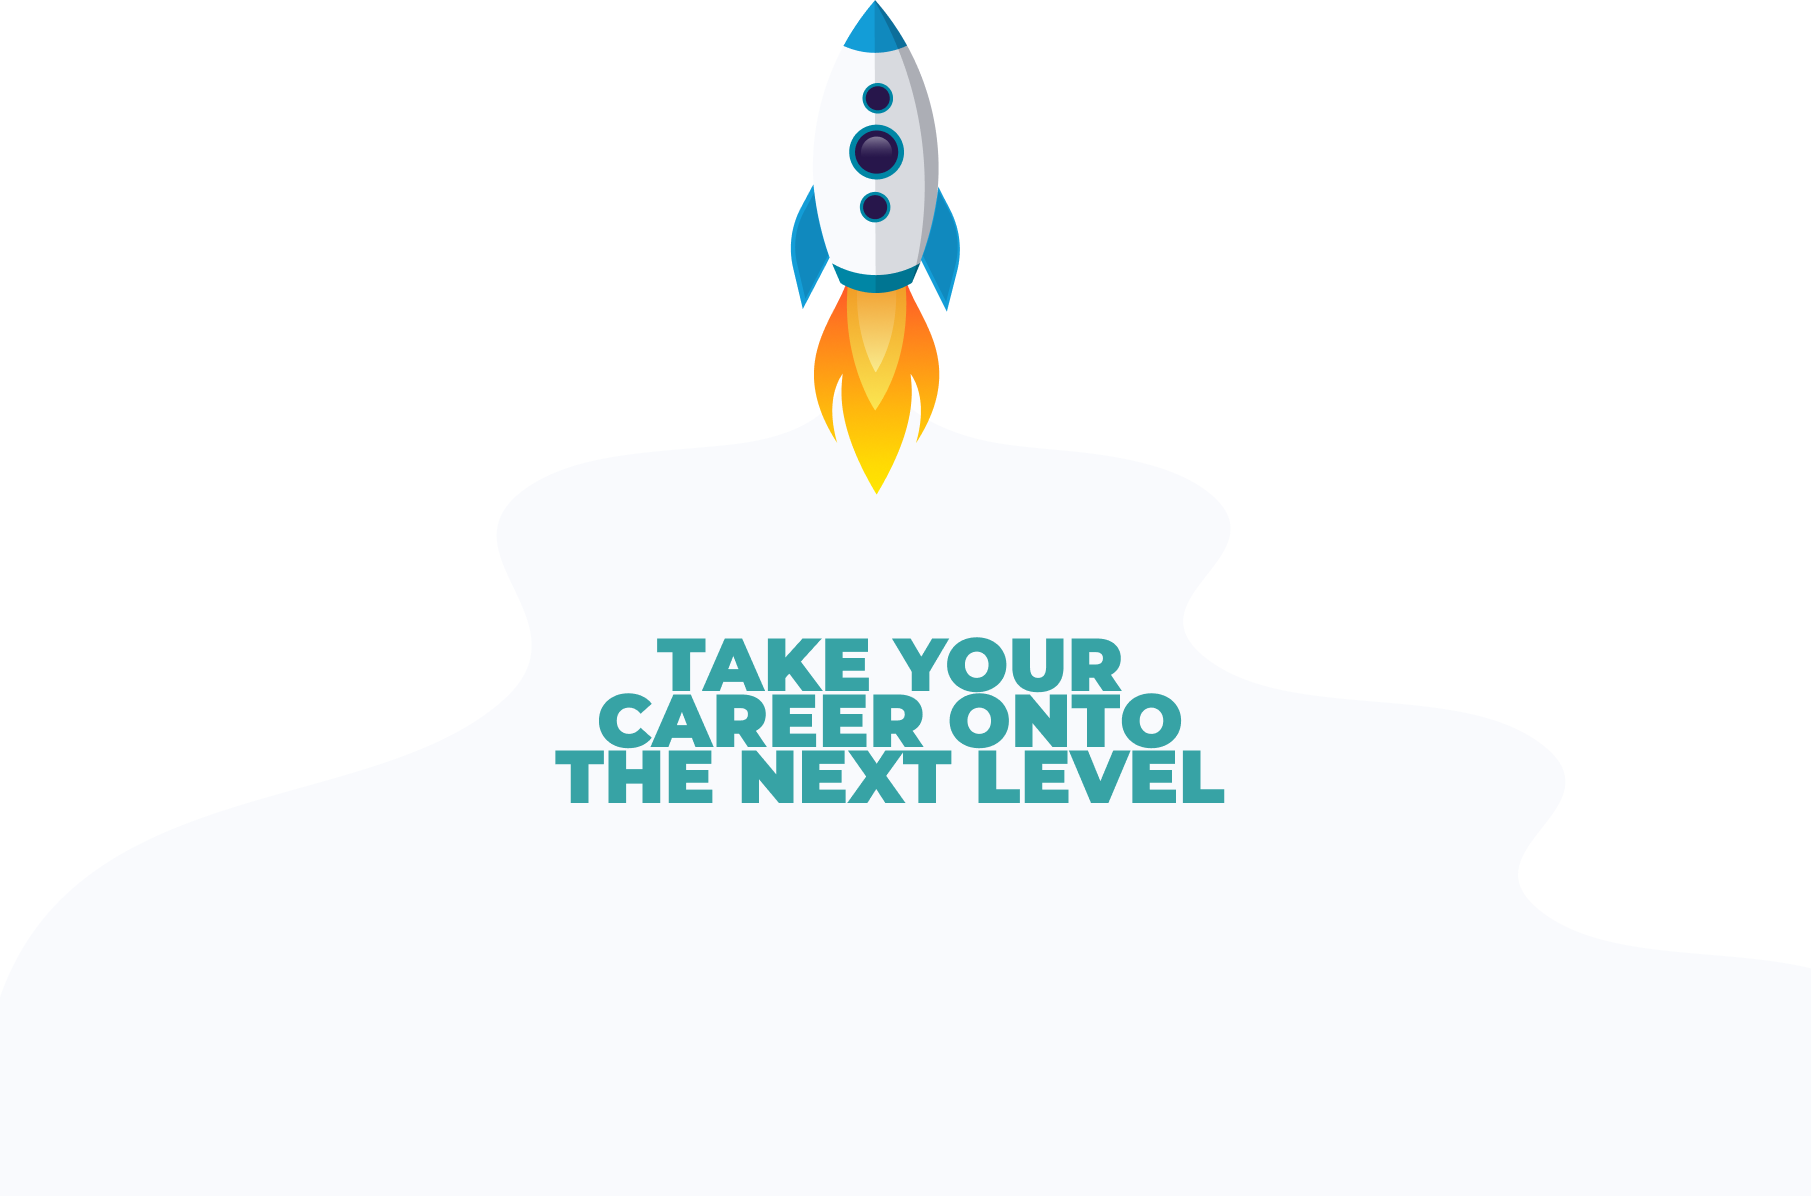
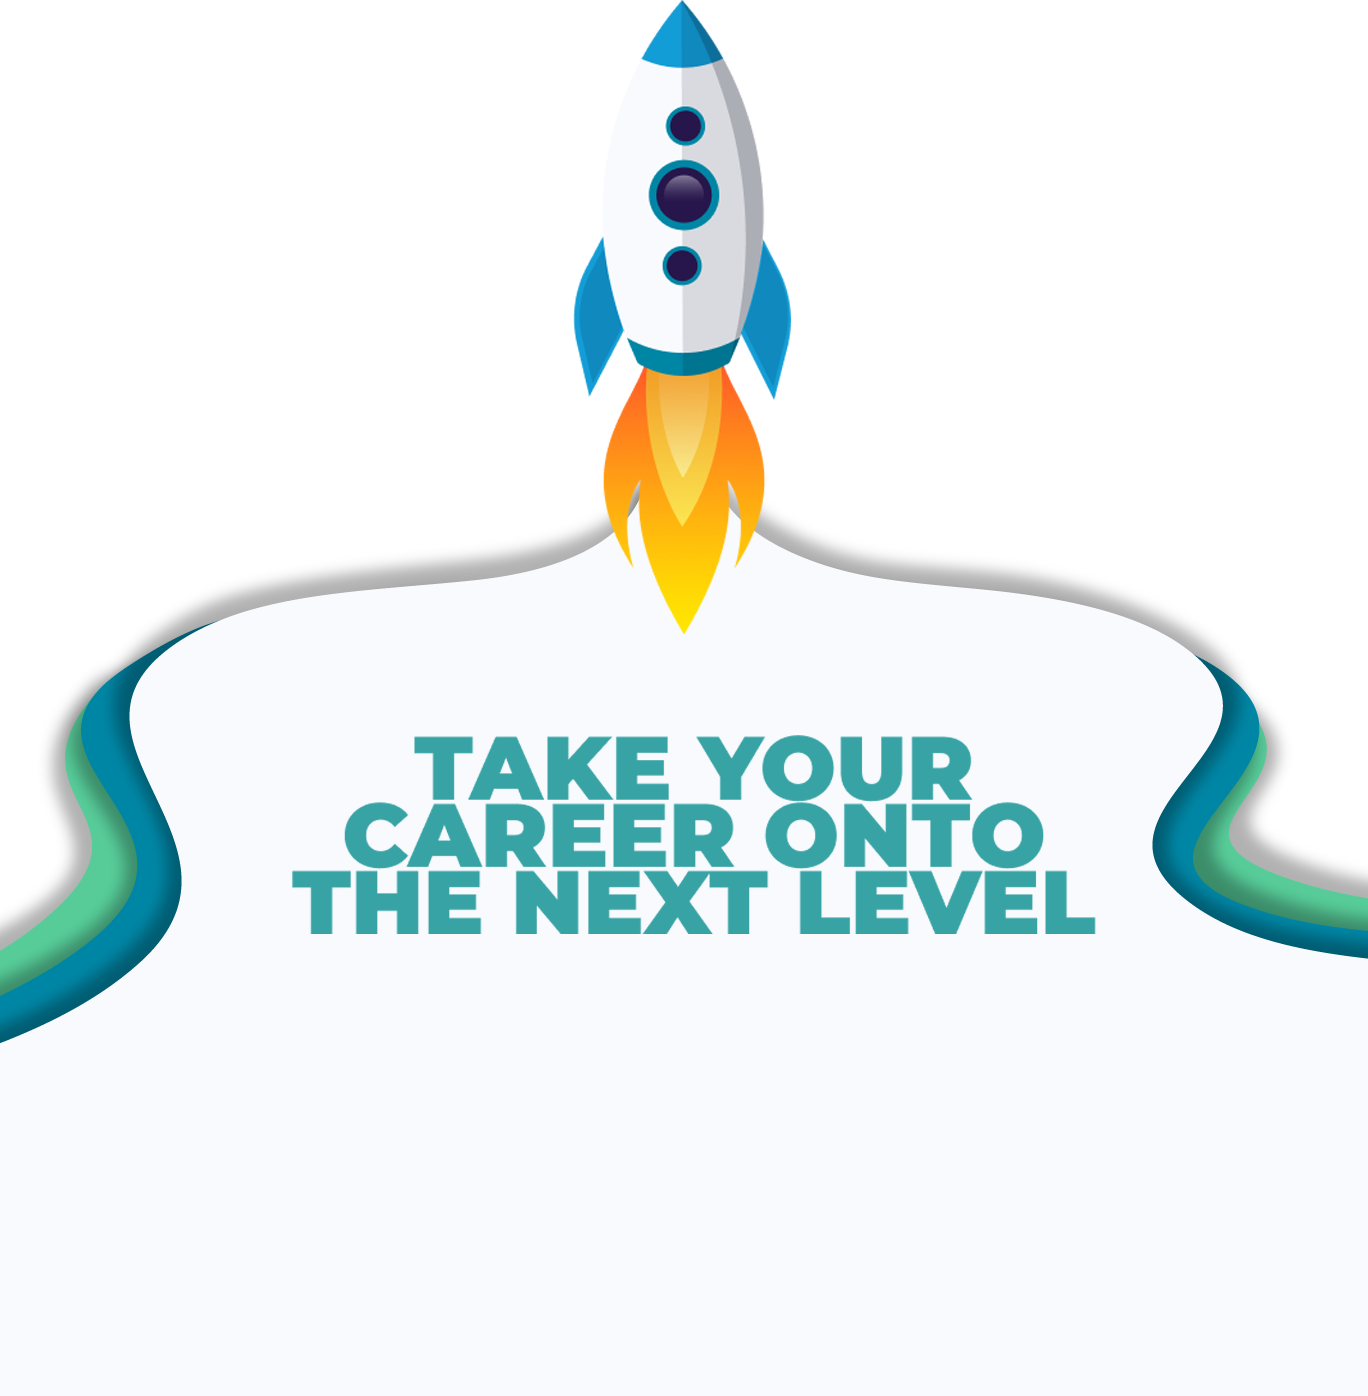
fix

Changed region(s): [[0.0, 0.0, 1.0, 0.7425], [0.2149, 0.5259, 0.7982, 0.6806]]

diff --git a/css/index.css b/css/index.css
@@ -384,6 +384,7 @@ nav{
     font-size: 2rem;
     padding: auto !important;
   }
+  
 }
 
 @media (min-width: 40.625em) {
@@ -428,6 +429,11 @@ nav{
   }
   .sectionWhiteApply{
     height: auto !important;
+  }
+  .rocket {
+    position: absolute;
+    bottom:0;
+    max-width:200%
   }
 }
   @media (min-width: 48em) {
@@ -479,6 +485,11 @@ nav{
     .applyImgcircle{
       margin-left: -121px;
       width: 500px !important;
+    }
+    .rocket {
+      position: absolute;
+      bottom:0;
+      max-width:200%
     }
   }
 
@@ -549,29 +560,7 @@ INDEX/HOME CSS
   margin-top: 10%;
 }
 
-.start-Section .rocket {
-  position: relative;
-  margin-top: 20%;
-  max-width:100%
-}
 
-.start-Section .rocket img {
-  width: 100%;
-}
-
-@media (max-width: 680px) and (min-width: 501px) {
-  .start-Section  .rocket {
-    position: absolute;
-    position: absolute;
-    bottom: -145px;
-  }
-}
-@media (max-width: 550px) {
-  .start-Section  .rocket {
-    position: absolute;
-    bottom: -10px;
-  }
-}
 
 .Benefits img{
   max-width: 65%;  
@@ -759,7 +748,6 @@ INDEX/HOME CSS
 .rocket {
   position: absolute;
   bottom:0;
-  
   max-width:100%
 }
 

diff --git a/index.html b/index.html
@@ -72,7 +72,8 @@
         <h1 class="title titleHome d-lg-none" data-aos="zoom-in" data-aos-duration="1000">THE RIGHT VEHICLE</h1>
         
         <img class="rocket d-none d-lg-block" src="./source/img/Titulo Home.png" data-aos="fade-up" data-aos-duration="2000">
-        <img class="rocket" src="./source/img/rocket.png" data-aos="fade-up" data-aos-duration="2000">
+        <img class="rocket d-none d-lg-block" src="./source/img/rocket.png" data-aos="fade-up" data-aos-duration="2000">
+        <img class="rocket d-lg-none" src="./source/img/rocket2.png" data-aos="fade-up" data-aos-duration="2000">
     </header>
 </div>
     
